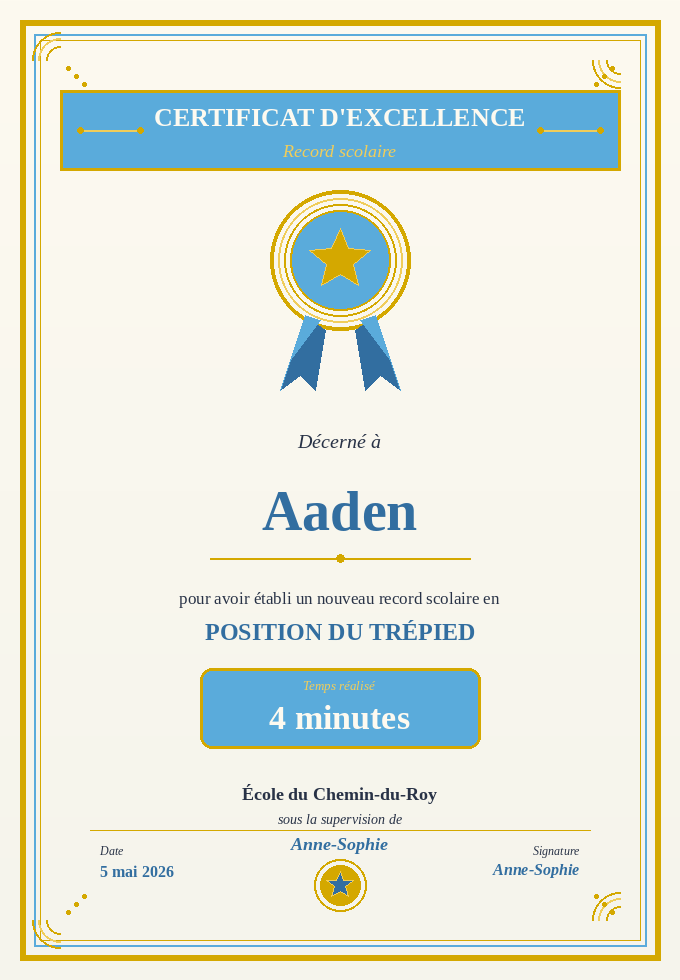
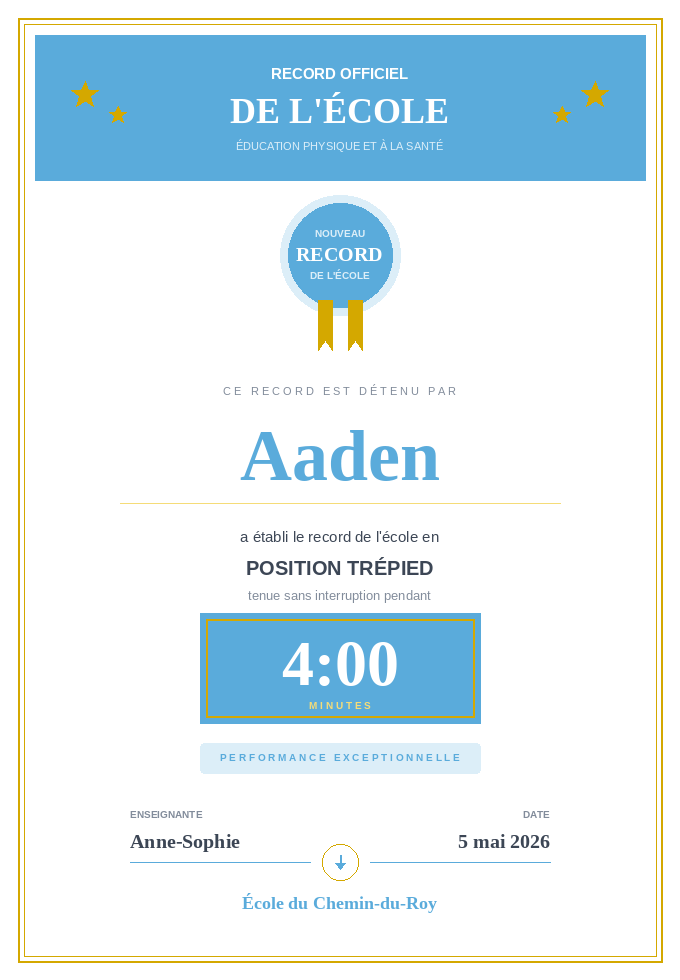
Redesign certificate in modern minimal style
Replaces the ornate frame-and-ribbon design with a clean layout:
solid blue header banner with stars, circular medal badge with gold
ribbons, large blue time box (4:00), performance pill, and
two-column footer with arrow separator.

Changed region(s): [[0.0, 0.0, 0.9882, 1.0], [0.1544, 0.8265, 0.3706, 0.9184], [0.6794, 0.8265, 0.8647, 0.9184]]

diff --git a/generate_certificate.py b/generate_certificate.py
@@ -3,162 +3,182 @@ import math
 
 W, H = 680, 980
 BLUE = (90, 171, 219)
-BLUE_DARK = (50, 110, 160)
+BLUE_SOFT = (220, 238, 248)
 GOLD = (212, 168, 0)
-GOLD_LIGHT = (240, 205, 90)
-CREAM = (253, 250, 240)
-INK = (40, 50, 70)
+GOLD_SOFT = (245, 220, 120)
+WHITE = (255, 255, 255)
+INK = (60, 70, 85)
+INK_SOFT = (130, 140, 155)
 
-img = Image.new("RGB", (W, H), CREAM)
+img = Image.new("RGB", (W, H), WHITE)
 d = ImageDraw.Draw(img)
 
-# Subtle background gradient
-for y in range(H):
-    t = y / H
-    r = int(253 - t * 8)
-    g = int(250 - t * 6)
-    b = int(240 - t * 4)
-    d.line([(0, y), (W, y)], fill=(r, g, b))
+# Outer thin gold frame
+d.rectangle([18, 18, W - 18, H - 18], outline=GOLD, width=2)
+d.rectangle([24, 24, W - 24, H - 24], outline=GOLD, width=1)
 
-# Outer gold border
-for i in range(6):
-    d.rectangle([20 + i, 20 + i, W - 20 - i, H - 20 - i],
-                outline=GOLD, width=1)
-# Inner thin blue border
-d.rectangle([34, 34, W - 34, H - 34], outline=BLUE, width=2)
-d.rectangle([40, 40, W - 40, H - 40], outline=GOLD, width=1)
-
-# Decorative corner ornaments
-def corner(cx, cy, flip_x=1, flip_y=1):
-    for r, c in [(28, GOLD), (22, GOLD_LIGHT), (14, GOLD)]:
-        d.arc([cx - r, cy - r, cx + r, cy + r],
-              start=180 if flip_x*flip_y > 0 else 90,
-              end=270 if flip_x*flip_y > 0 else 180,
-              fill=c, width=2)
-    # small dots
-    for k in range(3):
-        d.ellipse([cx + flip_x*(8 + k*8) - 2, cy + flip_y*(8 + k*8) - 2,
-                   cx + flip_x*(8 + k*8) + 2, cy + flip_y*(8 + k*8) + 2],
-                  fill=GOLD)
-
-corner(60, 60, 1, 1)
-corner(W - 60, 60, -1, 1)
-corner(60, H - 60, 1, -1)
-corner(W - 60, H - 60, -1, -1)
-
-# Top blue banner
-d.rectangle([60, 90, W - 60, 170], fill=BLUE)
-d.rectangle([60, 90, W - 60, 170], outline=GOLD, width=3)
-# Banner ornaments
-d.line([(80, 130), (140, 130)], fill=GOLD_LIGHT, width=2)
-d.line([(W - 140, 130), (W - 80, 130)], fill=GOLD_LIGHT, width=2)
-for x in [80, 140, W - 140, W - 80]:
-    d.ellipse([x - 3, 127, x + 3, 133], fill=GOLD)
-
-# Fonts
 def font(size, bold=False, italic=False):
     if bold and italic:
-        path = "/usr/share/fonts/truetype/liberation/LiberationSerif-BoldItalic.ttf"
+        p = "/usr/share/fonts/truetype/liberation/LiberationSans-BoldItalic.ttf"
     elif bold:
-        path = "/usr/share/fonts/truetype/liberation/LiberationSerif-Bold.ttf"
+        p = "/usr/share/fonts/truetype/liberation/LiberationSans-Bold.ttf"
     elif italic:
-        path = "/usr/share/fonts/truetype/liberation/LiberationSerif-Italic.ttf"
+        p = "/usr/share/fonts/truetype/liberation/LiberationSans-Italic.ttf"
     else:
-        path = "/usr/share/fonts/truetype/liberation/LiberationSerif-Regular.ttf"
-    return ImageFont.truetype(path, size)
+        p = "/usr/share/fonts/truetype/liberation/LiberationSans-Regular.ttf"
+    return ImageFont.truetype(p, size)
+
+def serif(size, bold=False):
+    if bold:
+        return ImageFont.truetype(
+            "/usr/share/fonts/truetype/liberation/LiberationSerif-Bold.ttf", size)
+    return ImageFont.truetype(
+        "/usr/share/fonts/truetype/liberation/LiberationSerif-Regular.ttf", size)
 
 def cx_text(y, text, fnt, fill):
     bbox = d.textbbox((0, 0), text, font=fnt)
     tw = bbox[2] - bbox[0]
     d.text(((W - tw) // 2, y), text, font=fnt, fill=fill)
 
-# Header text
-cx_text(102, "CERTIFICAT D'EXCELLENCE", font(26, bold=True), CREAM)
-cx_text(140, "Record scolaire", font(18, italic=True), GOLD_LIGHT)
+# === TOP BLUE HEADER ===
+header_top = 35
+header_h = 145
+d.rectangle([35, header_top, W - 35, header_top + header_h], fill=BLUE)
 
-# Medallion
-cx, cy = W // 2, 260
-# Outer gold ring
-for r, c, w in [(70, GOLD, 4), (62, GOLD_LIGHT, 2), (56, GOLD, 2)]:
-    d.ellipse([cx - r, cy - r, cx + r, cy + r], outline=c, width=w)
-# Inner blue disc
-d.ellipse([cx - 50, cy - 50, cx + 50, cy + 50], fill=BLUE)
-d.ellipse([cx - 50, cy - 50, cx + 50, cy + 50], outline=GOLD, width=2)
-# Star inside
-def star(cx, cy, r_out, r_in, points=5, fill=GOLD):
+# Stars in header
+def star(cx, cy, r_out, r_in, fill, points=5):
     pts = []
     for i in range(points * 2):
         ang = -math.pi / 2 + i * math.pi / points
         r = r_out if i % 2 == 0 else r_in
         pts.append((cx + r * math.cos(ang), cy + r * math.sin(ang)))
-    d.polygon(pts, fill=fill, outline=GOLD_LIGHT)
-star(cx, cy, 32, 14, 5, GOLD)
-# Ribbon tails below medallion
-d.polygon([(cx - 35, cy + 55), (cx - 60, cy + 130),
-           (cx - 40, cy + 115), (cx - 25, cy + 130),
-           (cx - 15, cy + 70)], fill=BLUE_DARK)
-d.polygon([(cx + 35, cy + 55), (cx + 60, cy + 130),
-           (cx + 40, cy + 115), (cx + 25, cy + 130),
-           (cx + 15, cy + 70)], fill=BLUE_DARK)
-d.polygon([(cx - 35, cy + 55), (cx - 60, cy + 130),
-           (cx - 50, cy + 100), (cx - 20, cy + 60)], fill=BLUE)
-d.polygon([(cx + 35, cy + 55), (cx + 60, cy + 130),
-           (cx + 50, cy + 100), (cx + 20, cy + 60)], fill=BLUE)
+    d.polygon(pts, fill=fill)
 
-# Body
-y = 430
-cx_text(y, "Décerné à", font(20, italic=True), INK)
-y += 50
-cx_text(y, "Aaden", font(56, bold=True), BLUE_DARK)
-# Underline flourish
-y += 78
-d.line([(W//2 - 130, y), (W//2 + 130, y)], fill=GOLD, width=2)
-d.ellipse([W//2 - 4, y - 4, W//2 + 4, y + 4], fill=GOLD)
+# Left stars
+star(85, header_top + 60, 14, 6, GOLD)
+star(118, header_top + 80, 9, 4, GOLD)
+# Right stars
+star(W - 85, header_top + 60, 14, 6, GOLD)
+star(W - 118, header_top + 80, 9, 4, GOLD)
 
-# Achievement statement
+# Header text
+cx_text(header_top + 30, "RECORD OFFICIEL", font(15, bold=True), WHITE)
+cx_text(header_top + 55, "DE L'ÉCOLE", serif(36, bold=True), WHITE)
+cx_text(header_top + 105, "ÉDUCATION PHYSIQUE ET À LA SANTÉ",
+        font(11), BLUE_SOFT)
+
+# === MEDAL BADGE ===
+mx, my = W // 2, header_top + header_h + 75
+# Outer ring (light blue)
+d.ellipse([mx - 60, my - 60, mx + 60, my + 60], fill=BLUE_SOFT)
+# Inner blue circle
+d.ellipse([mx - 52, my - 52, mx + 52, my + 52], fill=BLUE)
+
+# Medal text
+cx_text(my - 28, "NOUVEAU", font(10, bold=True), BLUE_SOFT)
+cx_text(my - 12, "RECORD", serif(20, bold=True), WHITE)
+cx_text(my + 14, "DE L'ÉCOLE", font(10, bold=True), BLUE_SOFT)
+
+# Two gold ribbons hanging down
+ribbon_top = my + 50
+# Left ribbon
+d.polygon([(mx - 22, ribbon_top - 5), (mx - 8, ribbon_top - 5),
+           (mx - 8, ribbon_top + 45),
+           (mx - 15, ribbon_top + 35),
+           (mx - 22, ribbon_top + 45)], fill=GOLD)
+# Right ribbon
+d.polygon([(mx + 8, ribbon_top - 5), (mx + 22, ribbon_top - 5),
+           (mx + 22, ribbon_top + 45),
+           (mx + 15, ribbon_top + 35),
+           (mx + 8, ribbon_top + 45)], fill=GOLD)
+
+# === BODY ===
+y = my + 130
+cx_text(y, "C E   R E C O R D   E S T   D É T E N U   P A R",
+        font(11), INK_SOFT)
+
 y += 30
-cx_text(y, "pour avoir établi un nouveau record scolaire en", font(17), INK)
-y += 30
-cx_text(y, "POSITION DU TRÉPIED", font(24, bold=True), BLUE_DARK)
+cx_text(y, "Aaden", serif(72, bold=True), BLUE)
 
-# Time highlight box
-y += 50
-box_w, box_h = 280, 80
-bx0 = (W - box_w) // 2
-d.rounded_rectangle([bx0, y, bx0 + box_w, y + box_h], radius=12,
-                    fill=BLUE, outline=GOLD, width=3)
-cx_text(y + 10, "Temps réalisé", font(13, italic=True), GOLD_LIGHT)
-cx_text(y + 30, "4 minutes", font(34, bold=True), CREAM)
+# Underline with gold accent
+y += 88
+d.line([(120, y), (W - 120, y)], fill=GOLD_SOFT, width=1)
 
-# School & teacher
-y += box_h + 35
-cx_text(y, "École du Chemin-du-Roy", font(18, bold=True), INK)
+# Achievement
+y += 25
+cx_text(y, "a établi le record de l'école en", font(15), INK)
 y += 28
-cx_text(y, "sous la supervision de", font(14, italic=True), INK)
-y += 22
-cx_text(y, "Anne-Sophie", font(18, bold=True, italic=True), BLUE_DARK)
+cx_text(y, "POSITION TRÉPIED", font(20, bold=True), INK)
 
-# Date row
-y = H - 150
-d.line([(90, y), (W - 90, y)], fill=GOLD, width=1)
-# Date left
-d.text((100, y + 14), "Date", font=font(12, italic=True), fill=INK)
-d.text((100, y + 32), "5 mai 2026", font=font(16, bold=True), fill=BLUE_DARK)
-# Signature right
-sig_text = "Signature"
-bbox = d.textbbox((0, 0), sig_text, font=font(12, italic=True))
-d.text((W - 100 - (bbox[2] - bbox[0]), y + 14), sig_text,
-       font=font(12, italic=True), fill=INK)
-sig_name = "Anne-Sophie"
-bbox = d.textbbox((0, 0), sig_name, font=font(16, bold=True, italic=True))
-d.text((W - 100 - (bbox[2] - bbox[0]), y + 30), sig_name,
-       font=font(16, bold=True, italic=True), fill=BLUE_DARK)
+y += 32
+cx_text(y, "tenue sans interruption pendant", font(13), INK_SOFT)
 
-# Tiny seal bottom-center
-sx, sy = W // 2, H - 95
-d.ellipse([sx - 26, sy - 26, sx + 26, sy + 26], outline=GOLD, width=2)
-d.ellipse([sx - 20, sy - 20, sx + 20, sy + 20], fill=GOLD)
-star(sx, sy, 14, 6, 5, BLUE_DARK)
+# Big blue time box
+y += 25
+box_w, box_h = 280, 110
+bx0 = (W - box_w) // 2
+d.rectangle([bx0, y, bx0 + box_w, y + box_h], fill=BLUE)
+# Inner gold border
+d.rectangle([bx0 + 6, y + 6, bx0 + box_w - 6, y + box_h - 6],
+            outline=GOLD, width=2)
+
+# "4:00"
+fnt_time = serif(64, bold=True)
+bbox = d.textbbox((0, 0), "4:00", font=fnt_time)
+tw = bbox[2] - bbox[0]
+th = bbox[3] - bbox[1]
+d.text((W // 2 - tw // 2, y + 14), "4:00", font=fnt_time, fill=WHITE)
+cx_text(y + box_h - 24, "M I N U T E S", font(10, bold=True), GOLD_SOFT)
+
+# Performance pill
+y += box_h + 20
+pill_w, pill_h = 280, 30
+px0 = (W - pill_w) // 2
+d.rounded_rectangle([px0, y, px0 + pill_w, y + pill_h],
+                    radius=4, fill=BLUE_SOFT)
+cx_text(y + 8, "P E R F O R M A N C E   E X C E P T I O N N E L L E",
+        font(10, bold=True), BLUE)
+
+# === FOOTER: ENSEIGNANTE / DATE ===
+y += pill_h + 35
+# Two columns separated by a small circle in the middle
+col_y_label = y
+col_y_value = y + 22
+
+# Labels
+left_label = "ENSEIGNANTE"
+right_label = "DATE"
+fl = font(10, bold=True)
+bbox = d.textbbox((0, 0), left_label, font=fl)
+d.text((130, col_y_label), left_label, font=fl, fill=INK_SOFT)
+bbox = d.textbbox((0, 0), right_label, font=fl)
+rw = bbox[2] - bbox[0]
+d.text((W - 130 - rw, col_y_label), right_label, font=fl, fill=INK_SOFT)
+
+# Values
+fv = serif(20, bold=True)
+d.text((130, col_y_value), "Anne-Sophie", font=fv, fill=INK)
+bbox = d.textbbox((0, 0), "5 mai 2026", font=fv)
+rw = bbox[2] - bbox[0]
+d.text((W - 130 - rw, col_y_value), "5 mai 2026", font=fv, fill=INK)
+
+# Underlines under each value
+ul_y = col_y_value + 32
+d.line([(130, ul_y), (W // 2 - 30, ul_y)], fill=BLUE, width=1)
+d.line([(W // 2 + 30, ul_y), (W - 130, ul_y)], fill=BLUE, width=1)
+
+# Center small circle with arrow icon
+ccx, ccy = W // 2, ul_y
+d.ellipse([ccx - 18, ccy - 18, ccx + 18, ccy + 18],
+          fill=WHITE, outline=GOLD, width=1)
+# Down arrow inside
+d.line([(ccx, ccy - 7), (ccx, ccy + 6)], fill=BLUE, width=2)
+d.polygon([(ccx - 5, ccy + 1), (ccx + 5, ccy + 1), (ccx, ccy + 7)],
+          fill=BLUE)
+
+# School name at bottom
+y = ul_y + 30
+cx_text(y, "École du Chemin-du-Roy", serif(18, bold=True), BLUE)
 
 img.save("/home/user/Burnapp/certificat-aaden.png", "PNG", optimize=True)
 print(f"Saved: {W}x{H}")
